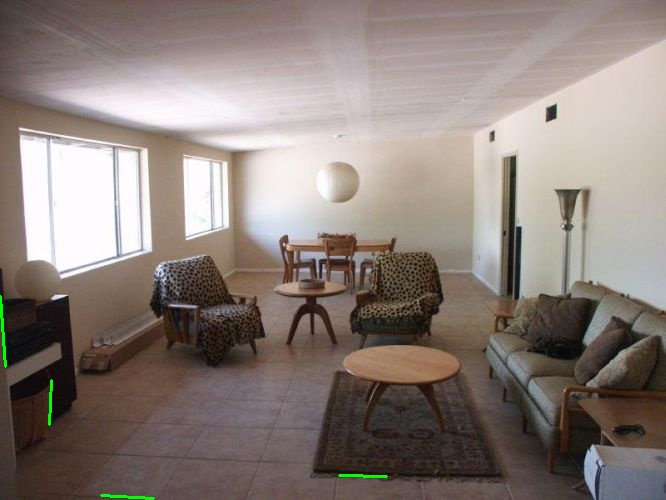
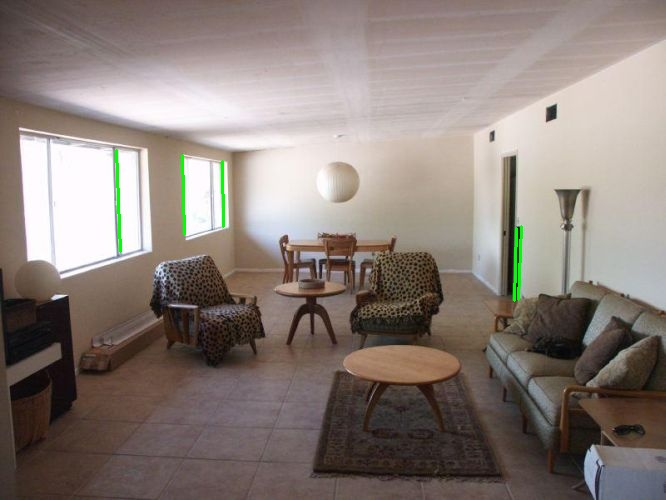
Added the new files

diff --git a/check_newcode.py b/check_newcode.py
@@ -182,30 +182,35 @@ m = np.argsort(-vote[:,3]);
 print m[0]
 a =  data_line[m[0],0] 
 vote_new = vote[m,:];
+vote = vote[m[0:1000],:];
+N = np.shape(vote);
 M = np.shape(line); 
 print M[0]
+print N[0]
 k_test = 0;
 k_test1 = 0;
 k_test2 = 0;
 k_test3 = 0;
 i = 0 ;
+#perpdata_new = np.zeros(((N[0],N[0],N[0])));
+maxval = 0 ;
 print data_line[m[1],0]
-while (i < N[0]):
-	i = i +1 ;
+for i in range(1,N[0]+1):
+	#i = i +1 ;
 	print i 
 	x_int1 = intersection_valid[m[i-1]][2];
 	y_int1 = intersection_valid[m[i-1]][3];
 	j = i+1;
-	while( j < N[0]) :
+	for j in range(i+1,N[0]+1) :
 		#print j
-		j = j +1; 	
+		#j = j +1; 	
 		x_int2 = intersection_valid[m[j-1]][2];
 		y_int2 = intersection_valid[m[j-1]][3];
 		length1 = math.sqrt((x_int1-x_int2)**2 +(y_int1-y_int2)**2);
 		k = j +1 ; 
-		while ( k < N[0]):
+		for k in range(j+1,N[0]+1):
 			#print k
-			k = k +1 ;
+			#k = k +1 ;
 			x_int3 = intersection_valid[m[k-1]][2];
 			y_int3 = intersection_valid[m[k-1]][3];
 			length2 = math.sqrt((x_int2-x_int3)**2 +(y_int2-y_int3)**2);
@@ -217,14 +222,18 @@ while (i < N[0]):
 					dot3 = (x_int2 - x_int3)*(x_int1 - x_int3) + (y_int2-y_int3)*(y_int1-y_int3) ;
 					if(dot3 > 0 ):
 						q = 0
-						while (q <M[0]):
-							p= q;
-							q =q +1 ; 
+						k_test1 = 0;
+						k_test2 = 0; 
+						k_test3 = 0 ;
+						count1 = 0 ;
+						count2 = 0 ; 
+						count3 = 0;
+						for q in range(1,M[0]+1):
+							p= q-1;
+							#q =q +1 ; 
 							#print p
-							k_test1 = 0;
-							k_test2 = 0; 
-							k_test3 = 0 ;
 							if (((data_line[m[i-1],p])==1) and ((data_line[m[j-1],p])==1)):
+								count1 = count1 +1 ;
 								#print p;
 								#print m[i],m[j],m[k]
 								#print data_line[m[j],p],data_line[m[k],p]
@@ -240,17 +249,13 @@ while (i < N[0]):
 										length2 =  math.sqrt((x_int2-x_mid)**2 +(y_int2-y_mid)**2);
 										angle2 = math.acos(abs((x_int1-x_int2)*(x_int2 - x_mid)+(y_int1-y_int2)*(y_int2 - y_mid))/((length1+0.00001)*(length2+0.00001)));
 										if ( angle2 < 0.0872):
-											k_test1 = 1;
-										else :
-											break;
-									else : 
-										break;
+											k_test1 = k_test1 +1 ;
+											#print k_test1
 										
-								else : 
-									break;
 									 
 							if (((data_line[m[j-1],p])==1) and ((data_line[m[k-1],p])==1)):
 								#print p;
+								count2 = count2 + 1; 
 								length1 = math.sqrt((x_int2-x_int3)**2 +(y_int2-y_int3)**2);
 								x_mid = ((line[p,0]+line[p,2])/2);
 								y_mid = ((line[p,1]+line[p,3])/2);
@@ -264,19 +269,11 @@ while (i < N[0]):
 										angle2 = math.acos(abs((x_int2-x_int3)*(x_int2 - x_mid)+(y_int2-y_int3)*(y_int2 - y_mid))/((length1+0.00001)*(length2+0.00001)));
 									
 										if ( angle2 < 0.08726646259971647):
-											k_test2 = 1; 
-										else : 
-											break
-											#print i,j,k
-									else : 
-										break
-
-
-								else : 
-									break;
+											k_test2 = k_test2 +1 ;
 							#print data_line[m[k-1],p],data_line[m[i-1],p] 		
 							if (((data_line[m[k-1],p])==1) and ((data_line[m[i-1],p])==1)):
 								#print p;
+								count3 = count3 + 1; 
 								length1 = math.sqrt((x_int3-x_int1)**2 +(y_int3-y_int1)**2);
 								x_mid = ((line[p,0]+line[p,2])/2);
 								y_mid = ((line[p,1]+line[p,3])/2);
@@ -289,27 +286,30 @@ while (i < N[0]):
 										length2 =  math.sqrt((x_int1-x_mid)**2 +(y_int1-y_mid)**2);
 										angle2 = math.acos(abs((x_int3-x_int1)*(x_int1 - x_mid)+(y_int3-y_int1)*(y_int1 - y_mid))/((length1+0.00001)*(length2+0.00001)));
 										if ( angle2 < 0.08726646259971647):
-											k_test3 = 1; 
-											#print i,j,k
-										else : 
-											break;	
-									else : 
-										break
-										
-								else : 
-									break;
+											k_test3 = k_test3 + 1;
 									
-						if ((k_test1 == 1) and (k_test2 == 1) and (k_test3 == 1)):
-							break;				
-											
-		if ((k_test1 == 1) and (k_test2 == 1) and (k_test3 == 1)):
-			break;
-	if((k_test1 == 1) and (k_test2 == 1) and (k_test3 == 1)):
-		break;
-		
+						#print ((float(k_test1)+float(k_test2)+float(k_test3))/(float(count1+0.00001)+float(count2+0.00001)+float(count3+0.00001)))
+						if (((float(k_test1)+float(k_test2)+float(k_test3))/(float(count1+0.00001)+float(count2+0.00001)+float(count3+0.00001))) > 0.8):
+							#print 1
+							if ((vote[i-1,3]+vote[j-1,3]+vote[k-1,3]) > maxval):							
+								maxval = vote[i-1,3]+vote[j-1,3]+vote[k-1,3] 
+								print maxval
+								i_arg = i-1
+						 		j_arg = j-1
+								k_arg = k-1
 
 
-
+print maxval
+#i,j,k = np.unravel_index(perpdata_new.argmax(), perpdata_new.shape)
+#print data_line
+#print np.size(I)
+#print perpdata_new
+#i = I[0]+1;
+#j = I[1]+1;
+#k = I[2]+1;	
+i = i_arg+1;
+j = j_arg + 1;
+k = k_arg +1 ; 
 
 img = cv2.imread('groundtruth/Images/0000000041.jpg')
 #print vote[n,0],vote[n,1]
@@ -349,6 +349,49 @@ cv2.line(img,(x1,y1),(x2,y2),(0,255,0),2)
 #y2 = int(intersection_valid[n][3]);
 #cv2.line(img,(x1,y1),(x2,y2),(0,255,0),2)
 cv2.imwrite('houghlines_new_perp.jpg',img)
+##############################################################
+img = cv2.imread('groundtruth/Images/0000000041.jpg')
+#print vote[n,0],vote[n,1]
+x1 = int(line[intersection_valid[m[i-1]][0],0]);
+y1 = int(line[intersection_valid[m[i-1]][0],1]);
+x2 = int(line[intersection_valid[m[i-1]][0],2]);
+y2 = int(line[intersection_valid[m[i-1]][0],3]);
+cv2.line(img,(x1,y1),(x2,y2),(0,255,0),2)
+x1 = int(line[intersection_valid[m[i-1]][1],0]);
+y1 = int(line[intersection_valid[m[i-1]][1],1]);
+x2 = int(line[intersection_valid[m[i-1]][1],2]);
+y2 = int(line[intersection_valid[m[i-1]][1],3]);
+cv2.line(img,(x1,y1),(x2,y2),(0,255,0),2)
+cv2.imwrite('houghlines_new_perp_1.jpg',img)
+img = cv2.imread('groundtruth/Images/0000000041.jpg')
+x1 = int(line[intersection_valid[m[j-1]][0],0]);
+y1 = int(line[intersection_valid[m[j-1]][0],1]);
+x2 = int(line[intersection_valid[m[j-1]][0],2]);
+y2 = int(line[intersection_valid[m[j-1]][0],3]);
+cv2.line(img,(x1,y1),(x2,y2),(0,255,0),2)
+x1 = int(line[intersection_valid[m[j-1]][1],0]);
+y1 = int(line[intersection_valid[m[j-1]][1],1]);
+x2 = int(line[intersection_valid[m[j-1]][1],2]);
+y2 = int(line[intersection_valid[m[j-1]][1],3]);
+cv2.line(img,(x1,y1),(x2,y2),(0,255,0),2)
+cv2.imwrite('houghlines_new_perp_2.jpg',img)
+img = cv2.imread('groundtruth/Images/0000000041.jpg')
+x1 = int(line[intersection_valid[m[k-1]][0],0]);
+y1 = int(line[intersection_valid[m[k-1]][0],1]);
+x2 = int(line[intersection_valid[m[k-1]][0],2]);
+y2 = int(line[intersection_valid[m[k-1]][0],3]);
+cv2.line(img,(x1,y1),(x2,y2),(0,255,0),2)
+x1 = int(line[intersection_valid[m[k-1]][1],0]);
+y1 = int(line[intersection_valid[m[k-1]][1],1]);
+x2 = int(line[intersection_valid[m[k-1]][1],2]);
+y2 = int(line[intersection_valid[m[k-1]][1],3]);
+cv2.line(img,(x1,y1),(x2,y2),(0,255,0),2)
+#x1 = int(line[intersection_valid[m[i]][0],0]);
+#y1 = int(line[intersection_valid[m[i][0],1]);
+#x2 = int(intersection_valid[n][2]);
+#y2 = int(intersection_valid[n][3]);
+#cv2.line(img,(x1,y1),(x2,y2),(0,255,0),2)
+cv2.imwrite('houghlines_new_perp_3.jpg',img)
 
 
 
